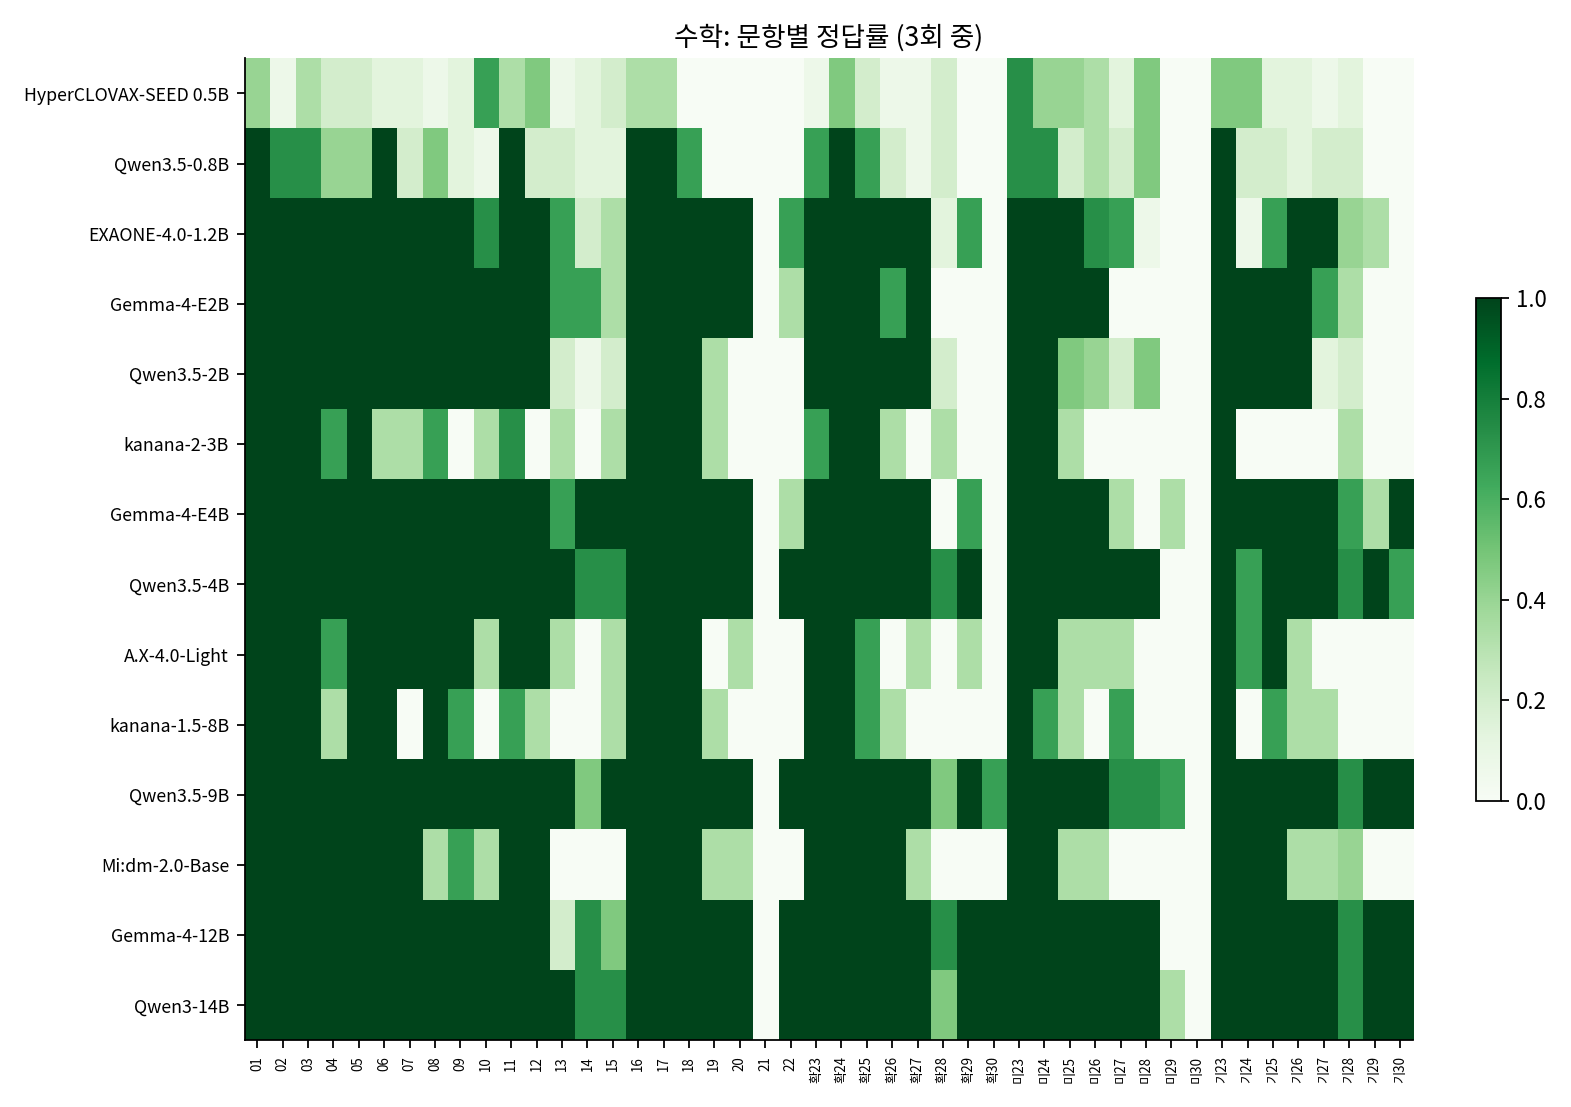
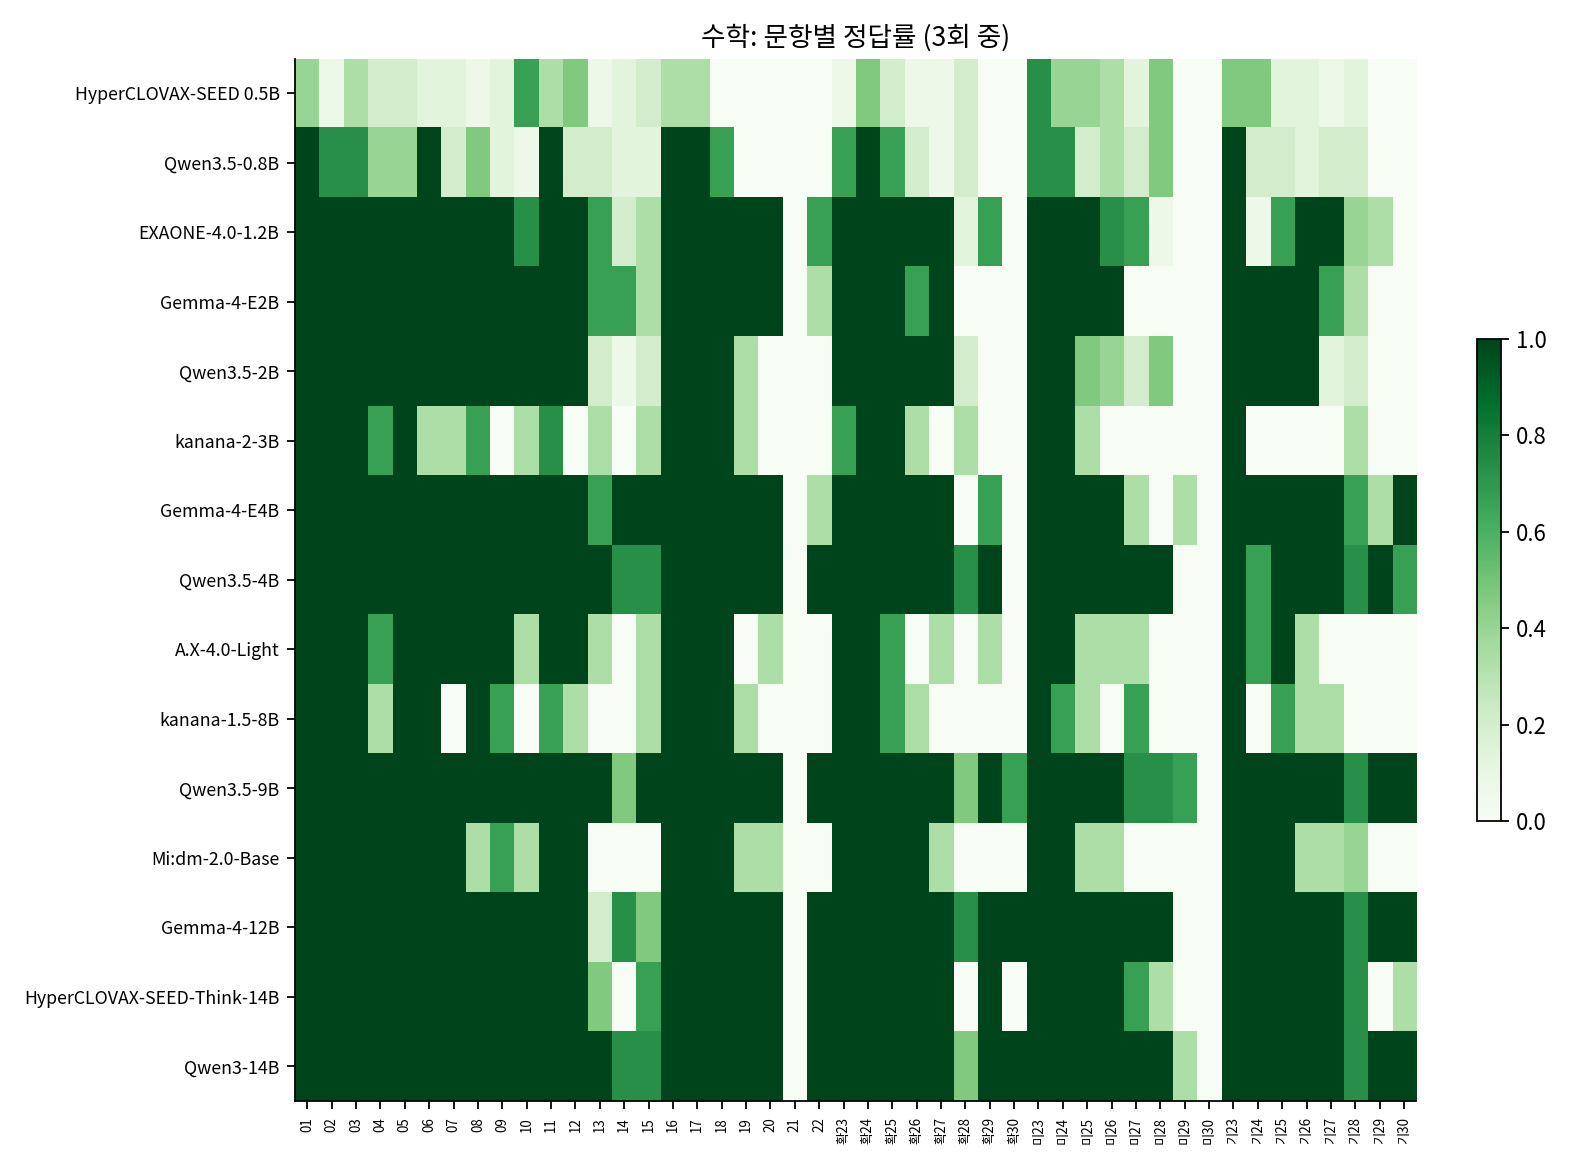
Update results (74 runs)

diff --git a/README.md b/README.md
@@ -12,10 +12,10 @@
 - **1B 이하 모델**은 평균 정답률이 31%로, 5지선다를 무작위로 찍었을 때(20%)보다 조금 나은 수준이다. 생각을 끝내지 못하고 길이 제한에 걸리거나, 답을 정해진 형식으로 쓰지 못하는 경우가 많았다.
 - **수학**은 작은 모델도 잘 푼다. 4B 크기의 Gemma-4-E4B가 80점을 넘었다.
 - 시험지 맨 끝의 4점 단답형 고난도 문항(공통 21·22번, 선택 29·30번)은 모델 평균 정답률이 22%, 가장 잘 푼 모델도 67%에 그쳤다.
-- **국어가 수학보다 어렵다.** 2B 이상 모델 기준으로 국어 정답률이 수학보다 평균 12%p 낮다. 2,000–4,000자 길이의 지문을 읽고 선택지 사이의 미묘한 차이를 가려내는 일이 작은 모델에게는 계산보다 어렵다.
-- **국산 모델**: HyperCLOVAX-SEED 0.5B(국어 18점, 수학 19점, 영어 28점, 한국사 12점), EXAONE-4.0-1.2B(국어 31점, 수학 75점, 영어 63점, 한국사 15점), kanana-2-3B(국어 34점, 수학 39점, 영어 74점, 한국사 33점), A.X-4.0-Light(국어 49점, 수학 56점, 영어 83점, 한국사 32점), kanana-1.5-8B(국어 45점, 수학 42점, 영어 83점, 한국사 41점), Mi:dm-2.0-Base(국어 44점, 수학 54점, 영어 82점, 한국사 46점), HyperCLOVAX-SEED-Think-14B(국어 78점, 영어 88점, 한국사 47점).
+- **국어가 수학보다 어렵다.** 2B 이상 모델 기준으로 국어 정답률이 수학보다 평균 11%p 낮다. 2,000–4,000자 길이의 지문을 읽고 선택지 사이의 미묘한 차이를 가려내는 일이 작은 모델에게는 계산보다 어렵다.
+- **국산 모델**: HyperCLOVAX-SEED 0.5B(국어 18점, 수학 19점, 영어 28점, 한국사 12점), EXAONE-4.0-1.2B(국어 31점, 수학 75점, 영어 63점, 한국사 15점), kanana-2-3B(국어 34점, 수학 39점, 영어 74점, 한국사 33점), A.X-4.0-Light(국어 49점, 수학 56점, 영어 83점, 한국사 32점), kanana-1.5-8B(국어 45점, 수학 42점, 영어 83점, 한국사 41점), Mi:dm-2.0-Base(국어 44점, 수학 54점, 영어 82점, 한국사 46점), HyperCLOVAX-SEED-Think-14B(국어 78점, 수학 79점, 영어 88점, 한국사 47점).
 
-> 마지막 업데이트: 2026-11-20 10:12 KST. 평가가 진행되는 동안 모델 하나가 끝날 때마다 이 페이지가 자동으로 갱신된다.
+> 마지막 업데이트: 2026-11-20 10:14 KST. 평가가 진행되는 동안 모델 하나가 끝날 때마다 이 페이지가 자동으로 갱신된다.
 
 ## 왜 소형 모델인가
 
@@ -70,6 +70,8 @@
 
 ![가장 어려운 15문항](figures/hardest_items.png)
 
+**모든 모델이 3회 모두 틀린 문항**: `math-calc-30`, `math-common-21`
+
 **모든 모델이 3회 모두 맞힌 문항**: `eng-all-20`, `eng-all-24`
 
 ## 문항 해설
@@ -99,7 +101,7 @@
 | Qwen3.5-9B | 알리바바 | 9.0 | 플래그십 스마트폰 | 87.7 <sub>(87–88)</sub> | 79.0 <sub>(76–81)</sub> | 90.4 <sub>(89–93)</sub> | 86.7 <sub>(82–92)</sub> | 92.8 <sub>(90–96)</sub> | 90.9 <sub>(89–93)</sub> | 28.6 <sub>(25–33)</sub> | 42.3 <sub>(40–45)</sub> | 25.8 <sub>(21–33)</sub> | 45.3 <sub>(44–48)</sub> | 28.5 <sub>(24–36)</sub> | 28.5 <sub>(25–34)</sub> |
 | Mi:dm-2.0-Base | KT | 11.5 | 노트북·태블릿 | 47.3 <sub>(46–50)</sub> | 41.0 <sub>(37–45)</sub> | 55.3 <sub>(55–56)</sub> | 50.3 <sub>(47–55)</sub> | 54.9 <sub>(51–59)</sub> | 82.3 <sub>(79–87)</sub> | 45.7 <sub>(41–48)</sub> | 30.7 <sub>(29–34)</sub> | 23.3 <sub>(21–25)</sub> | 17.3 <sub>(14–19)</sub> | 21.3 <sub>(17–28)</sub> | 17.3 <sub>(12–24)</sub> |
 | Gemma-4-12B | 구글 | 12.0 | 노트북·태블릿 | 91.7 <sub>(88–95)</sub> | 86.2 <sub>(78–93)</sub> | 88.5 <sub>(86–90)</sub> | 81.6 <sub>(82–82)</sub> | 88.5 <sub>(86–90)</sub> | 94.3 <sub>(91–96)</sub> | 39.2 <sub>(35–43)</sub> | 42.8 <sub>(39–47)</sub> | 37.5 <sub>(35–41)</sub> | 45.2 <sub>(40–50)</sub> | 32.2 <sub>(31–34)</sub> | 34.4 <sub>(32–37)</sub> |
-| HyperCLOVAX-SEED-Think-14B | 네이버 | 14.7 | 노트북·태블릿 | 80.3 <sub>(78–83)</sub> | 74.7 <sub>(72–77)</sub> | — | — | — | 88.2 <sub>(87–89)</sub> | 47.3 <sub>(46–48)</sub> | — | — | — | — | — |
+| HyperCLOVAX-SEED-Think-14B | 네이버 | 14.7 | 노트북·태블릿 | 80.3 <sub>(78–83)</sub> | 74.7 <sub>(72–77)</sub> | 80.5 <sub>(77–84)</sub> | 76.9 <sub>(73–81)</sub> | 80.8 <sub>(78–84)</sub> | 88.2 <sub>(87–89)</sub> | 47.3 <sub>(46–48)</sub> | — | — | — | — | — |
 | Qwen3-14B | 알리바바 | 14.8 | 노트북·태블릿 | 72.0 <sub>(68–77)</sub> | 64.7 <sub>(64–66)</sub> | 91.7 <sub>(90–96)</sub> | 87.2 <sub>(85–89)</sub> | 92.8 <sub>(93–93)</sub> | 90.3 <sub>(89–93)</sub> | 24.0 <sub>(22–25)</sub> | 38.0 <sub>(35–40)</sub> | 20.3 <sub>(16–24)</sub> | 36.3 <sub>(30–40)</sub> | 25.7 <sub>(23–27)</sub> | 26.7 <sub>(18–36)</sub> |
 
 **국어·수학·영어 원점수**
@@ -172,7 +174,7 @@
 | Qwen3.5-9B | 0.80 / 0.79 / 0.07 / 0.07 / 7616 | 0.90 / 0.89 / 0.11 / 0.11 / 7024 | 0.91 / 0.91 / 0.01 / 0.01 / 3250 | 0.57 / 0.57 / 0.03 / 0.03 / 8780 | 0.69 / 0.67 / 0.08 / 0.09 / 8504 |
 | Mi:dm-2.0-Base | 0.45 / 0.45 / 0.00 / 0.00 / 361 | 0.55 / 0.54 / 0.01 / 0.01 / 851 | 0.84 / 0.84 / 0.00 / 0.00 / 251 | 0.90 / 0.90 / 0.00 / 0.00 / 265 | 0.45 / 0.45 / 0.00 / 0.00 / 371 |
 | Gemma-4-12B | 0.86 / 0.86 / 0.05 / 0.05 / 5240 | 0.89 / 0.88 / 0.12 / 0.12 / 6271 | 0.94 / 0.94 / 0.00 / 0.00 / 1211 | 0.79 / 0.78 / 0.02 / 0.02 / 3103 | 0.78 / 0.76 / 0.11 / 0.11 / 6245 |
-| HyperCLOVAX-SEED-Think-14B | 0.73 / 0.73 / 0.00 / 0.00 / 5140 | — | 0.89 / 0.89 / 0.02 / 0.00 / 2236 | 0.93 / 0.93 / 0.00 / 0.00 / 2267 | — |
+| HyperCLOVAX-SEED-Think-14B | 0.73 / 0.73 / 0.00 / 0.00 / 5140 | 0.79 / 0.78 / 0.06 / 0.06 / 6694 | 0.89 / 0.89 / 0.02 / 0.00 / 2236 | 0.93 / 0.93 / 0.00 / 0.00 / 2267 | — |
 | Qwen3-14B | 0.62 / 0.62 / 0.00 / 0.00 / 1395 | 0.91 / 0.90 / 0.10 / 0.09 / 4721 | 0.91 / 0.91 / 0.00 / 0.00 / 635 | 0.48 / 0.48 / 0.00 / 0.00 / 1561 | 0.60 / 0.60 / 0.00 / 0.00 / 3066 |
 
 ## 평가 방법
